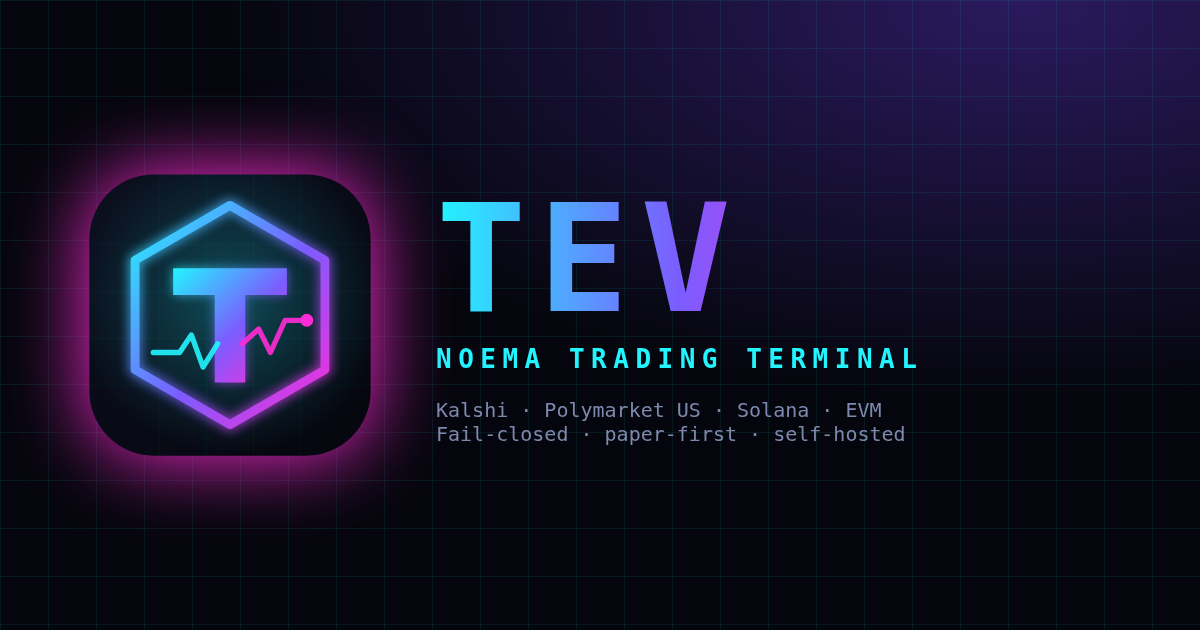
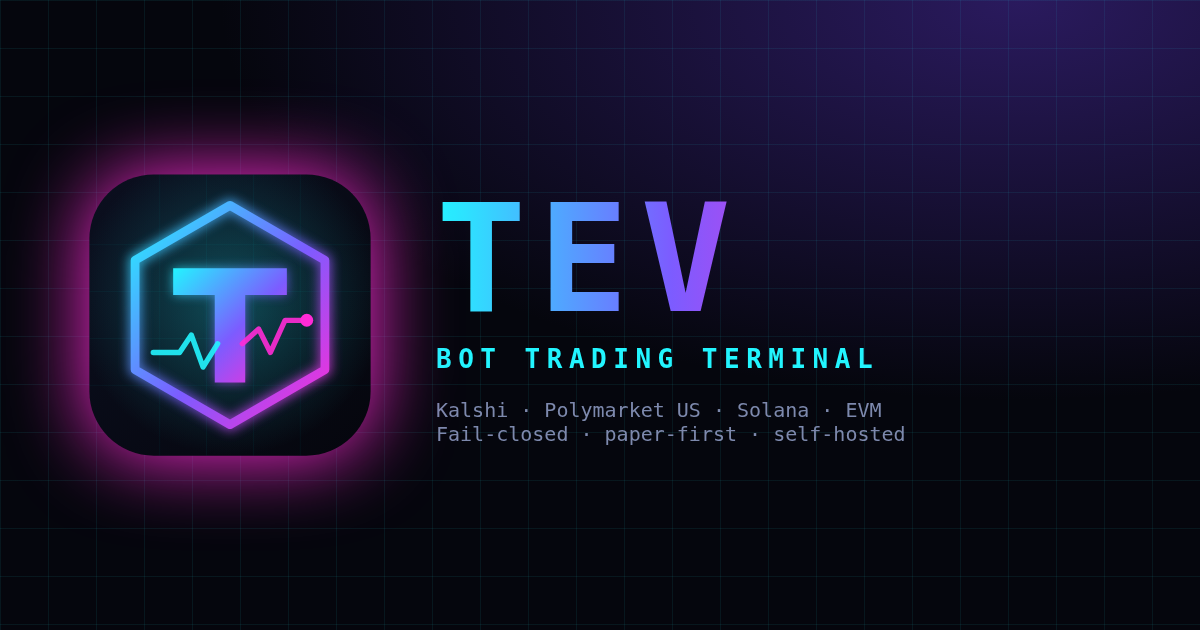
Pages: refresh content to current main (TEV Bot Trading Terminal, news v2, accuracy, capital guard, equity feed, signers, Mac app, social coming)

Changed region(s): [[0.4008, 0.5429, 0.7708, 0.6032]]

diff --git a/site/index.html b/site/index.html
@@ -3,11 +3,11 @@
   <head>
     <meta charset="UTF-8" />
     <meta name="viewport" content="width=device-width,initial-scale=1" />
-    <meta name="description" content="TEV · NOEMA — a self-hosted, fail-closed multi-agent trading terminal for Kalshi, Polymarket US, Solana and EVM. Crawler trading rooms, a news crawler, and accuracy-scored forecasting. Paper mode; results not yet proven." />
+    <meta name="description" content="TEV Bot Trading Terminal — a self-hosted, fail-closed multi-agent trading terminal for Kalshi, Polymarket US, Solana and EVM. Crawler trading rooms, a news crawler, and accuracy-scored forecasting. Paper mode; results not yet proven." />
     <meta http-equiv="Content-Security-Policy" content="default-src 'none'; script-src 'self'; style-src 'self'; img-src 'self' data:; font-src 'self'; connect-src 'none'; base-uri 'none'; form-action 'none'; object-src 'none'" />
     <meta name="theme-color" content="#05060d" />
     <meta property="og:type" content="website" />
-    <meta property="og:title" content="TEV · NOEMA Trading Terminal" />
+    <meta property="og:title" content="TEV Bot Trading Terminal" />
     <meta property="og:description" content="Fail-closed multi-agent trading terminal: crawler trading rooms, news crawler, accuracy-scored forecasting. Paper mode — not yet proven." />
     <meta property="og:url" content="https://gryszzz.github.io/TEV-Bot-Trading-Terminal/" />
     <meta property="og:image" content="https://gryszzz.github.io/TEV-Bot-Trading-Terminal/og.png" />
@@ -15,7 +15,7 @@
     <meta property="og:image:height" content="630" />
     <meta name="twitter:card" content="summary_large_image" />
     <meta name="twitter:image" content="https://gryszzz.github.io/TEV-Bot-Trading-Terminal/og.png" />
-    <title>TEV · NOEMA Trading Terminal</title>
+    <title>TEV Bot Trading Terminal</title>
     <link rel="icon" href="./favicon.ico" sizes="any" />
     <link rel="icon" href="./img/tev-logo.svg" type="image/svg+xml" />
     <link rel="apple-touch-icon" href="./tev-180.png" />
@@ -26,7 +26,7 @@
     <canvas id="grid" aria-hidden="true"></canvas>
     <a class="skip" href="#main">Skip to content</a>
     <header class="masthead">
-      <a href="#top" class="brand" aria-label="TEV home"><img src="./img/tev-logo.svg" alt="" width="34" height="34" /><strong>TEV</strong><span>NOEMA TRADING TERMINAL</span></a>
+      <a href="#top" class="brand" aria-label="TEV home"><img src="./img/tev-logo.svg" alt="" width="34" height="34" /><strong>TEV</strong><span>BOT TRADING TERMINAL</span></a>
       <nav aria-label="Primary">
         <a href="#capabilities">Capabilities</a><a href="#safety">Safety</a><a href="#gallery">Room</a><a href="#architecture">Architecture</a><a href="#roadmap">Roadmap</a><a class="cta" href="https://github.com/gryszzz/TEV-Bot-Trading-Terminal">GitHub ↗</a>
       </nav>
@@ -35,9 +35,9 @@
       <section class="hero" id="top" aria-labelledby="hero-title">
         <div class="hero-copy">
           <div class="status-strip"><span class="pill ok"><i></i>PAPER MODE</span><span class="pill">AUTONOMY · SHADOW</span><span class="pill bad">LIVE FLAGS · ALL OFF</span></div>
-          <h1 id="hero-title"><span class="glitch" data-text="TEV">TEV</span><small>Observe. Infer. Verify. Act.</small></h1>
-          <p class="lede">A self-hosted, multi-agent trading terminal built on <strong>NOEMA</strong>. Crawlers sweep Kalshi, Polymarket US and on-chain markets; specialist agents forecast; every forecast is scored; and nothing touches real money unless a fail-closed gateway, a capital guard and the owner all say yes.</p>
-          <p class="honest">Honest status: TEV runs in paper mode. No NOEMA model beats the market baseline yet, and no profit has been demonstrated.</p>
+          <h1 id="hero-title"><span class="glitch" data-text="TEV">TEV</span><small>Bot Trading Terminal</small></h1>
+          <p class="lede"><strong>TEV Bot Trading Terminal</strong> is a self-hosted, multi-agent trading terminal running on the NOEMA agent runtime. Crawlers sweep Kalshi, Polymarket US and on-chain markets; specialist agents forecast; every forecast is scored; and nothing touches real money unless a fail-closed gateway, a capital guard and the owner all say yes.</p>
+          <p class="honest">Honest status: TEV runs in paper mode. No agent beats the market baseline yet, and no profit has been demonstrated.</p>
           <div class="actions"><a class="btn primary" href="https://github.com/gryszzz/TEV-Bot-Trading-Terminal">View the repo ↗</a><a class="btn" href="#gallery">See the trading room</a></div>
         </div>
         <figure class="hero-art"><img src="./img/tev-logo.svg" alt="TEV logo" width="320" height="320" /><div class="ring"></div><div class="ring r2"></div></figure>
@@ -49,12 +49,13 @@
         <p class="eyebrow">01 / WHAT IT DOES</p>
         <h2>Rooms of crawlers. Desks of agents. One judge.</h2>
         <div class="cards">
-          <article class="card c1"><h3>Crawler trading rooms</h3><p>Live sweeps of Solana DEX pools (GeckoTerminal, DexScreener, pump.fun new pairs), Kalshi and Polymarket US. Candidates flow through filters → holders → judge → entry in a visible funnel, with per-source health.</p></article>
-          <article class="card c2"><h3>News &amp; evidence crawler</h3><p>Primary sources first: BBC, NPR, the Fed, SEC press, CourtListener, GDELT, government data releases, Congress and the Federal Register. robots.txt respected, crawled text treated as untrusted with prompt-injection redaction, articles matched to open markets by category and resolution criteria.</p></article>
-          <article class="card c3"><h3>Multi-agent forecasting</h3><p>Specialist agents (baselines, risk, fills, tape, floor, vet) propose; TEV JUDGE self-checks and skips when its samples disagree; CHIEF can veto. Every resolved forecast feeds a ledger of Brier score, log loss, calibration and EV per agent.</p></article>
-          <article class="card c4"><h3>Accuracy-weighted influence</h3><p>CHIEF weights agents by sample size × measured skill. Agents that stay out of bounds after 30 resolved forecasts are benched. Post-trade reviews write lessons back.</p></article>
-          <article class="card c5"><h3>Four desks</h3><ul class="desks"><li><b>Kalshi</b> regulated event contracts</li><li><b>Polymarket US</b> prediction markets</li><li><b>Solana</b> Jupiter swaps via a separate signer</li><li><b>EVM</b> KyberSwap on Ethereum, Base, Polygon</li></ul></article>
-          <article class="card c6"><h3>Self-hosted</h3><p>Runs on your own box with a private, password-protected TEV dashboard and a native Mac app. No cloud custody; keys live only in a separate signer process, never in logs or model context.</p></article>
+          <article class="card c1"><h3>TEV v6 trading room</h3><p>A live neon room: agent wall, crawler bay with a filters → holders → judge → entry funnel, decision stream, prediction-market board, news wire, treasury, autonomy &amp; safety panel and per-source system health.</p></article>
+          <article class="card c2"><h3>News crawler v2</h3><p>29 configured feeds, primary sources first: White House, Federal Register, Congress.gov, GovInfo, Fed, SEC, DOJ, CDC, NOAA Hurricane Center, ECB, Bank of England, CourtListener, plus BBC, NPR, Guardian, Al Jazeera, CNBC, Politico, The Hill and GDELT. Targeted searches for the soonest-closing markets, 5-minute cadence, robots.txt respected, crawled text treated as untrusted.</p><p class="metric">Matching precision: 15/16 hand-labelled links (≈94%), up from 25%. A small sample.</p></article>
+          <article class="card c3"><h3>Accuracy engine</h3><p>Every forecast goes into a ledger before its outcome. Resolved forecasts are scored per agent: Brier score, log loss, calibration and EV. CHIEF weights each agent by sample size × measured skill, agents still out of bounds after 30 resolved forecasts are benched, and TEV JUDGE skips when its own samples disagree.</p></article>
+          <article class="card c4"><h3>Capital guard + equity feed</h3><p>75% rising floor, 10% daily stop, 3 / 5 / 8% edge-scaled sizing with quarter Kelly. A read-only equity feed totals Kalshi, Polymarket US, Solana and EVM balances every 5 minutes. Any failed source marks the reading stale and blocks trading, and deposits raise the floor instead of counting as profit.</p></article>
+          <article class="card c5"><h3>Desks &amp; venues</h3><ul class="desks"><li><b>Kalshi</b> markets + account, gated live orders</li><li><b>Polymarket US</b> markets + gated live adapter (off)</li><li><b>Solana</b> trench crawler, paper desks; Jupiter signer merged, ships disabled</li><li><b>EVM</b> KyberSwap signer for ETH/Base/Polygon, merged, ships disabled</li></ul></article>
+          <article class="card c6"><h3>TEV Mac app</h3><p>A native macOS app with the TEV logo opens the private, password-protected dashboard from your Dock. Self-hosted: keys live only in a separate signer process, never in logs or model context.</p></article>
+          <article class="card c7 soon"><h3>X / social signal feed <em>coming</em></h3><p>In progress. The SOCIAL seat is a research-only placeholder today and does not influence trades.</p></article>
         </div>
       </section>
 
@@ -135,19 +136,20 @@
         <p class="eyebrow">06 / ROADMAP</p>
         <h2>Prove it on paper, then earn the right to trade.</h2>
         <ol class="roadmap">
-          <li class="done"><b>Shipped</b>TEV v6 trading room, news crawler v2, accuracy engine, capital guard, read-only equity feed, Solana &amp; EVM signers (disabled), Mac app.</li>
-          <li class="now"><b>Now</b>Build a scored paper track record: 30 resolved forecasts per desk, focused on news-driven Kalshi and Polymarket markets.</li>
-          <li><b>Next</b>Beat the market baseline on calibration. Only then: small owner-approved funding with the floor, daily stop and SOL/ETH/USDC starter allowlist.</li>
-          <li><b>Later</b>Scale sizing tiers (5%, 8%) only on 100+ / 200+ resolved forecasts that beat the market. Memecoin desks stay paper until they show positive EV after costs.</li>
+          <li class="done"><b>Shipped</b>TEV v6 trading room · accuracy engine · news crawler v2 · capital guard · read-only equity feed · Solana &amp; EVM swap signers (ship disabled) · TEV Mac app.</li>
+          <li class="now"><b>Now</b>Build a scored paper track record, focused on news-driven Kalshi and Polymarket US markets, toward 30 resolved forecasts per agent.</li>
+          <li><b>Coming</b>X / social signal feed, treated as untrusted evidence like the news crawler.</li>
+          <li><b>Next</b>Beat the market baseline on calibration. Only then: small owner-approved funding with the floor, daily stop and a SOL/ETH/USDC starter allowlist.</li>
+          <li><b>Later</b>Scale to 5% and 8% sizing only after 100+ / 200+ resolved forecasts that beat the market. Memecoin desks stay paper until they show positive EV after costs.</li>
         </ol>
       </section>
 
       <section class="section start">
-        <img src="./img/tev-banner.svg" alt="TEV // NOEMA trading terminal banner" width="1600" height="420" loading="lazy" />
+        <img src="./img/tev-banner.svg" alt="TEV Bot Trading Terminal banner" width="1600" height="420" loading="lazy" />
         <div class="actions"><a class="btn primary" href="https://github.com/gryszzz/TEV-Bot-Trading-Terminal">github.com/gryszzz/TEV-Bot-Trading-Terminal ↗</a><a class="btn" href="https://github.com/gryszzz/TEV-Bot-Trading-Terminal/blob/main/docs/capital-guard.md">Capital guard docs</a></div>
         <p class="annotation">Not financial advice. Trading prediction markets and tokens can lose money. TEV makes no performance claims.</p>
       </section>
     </main>
-    <footer>TEV · NOEMA — self-hosted, fail-closed, paper-first.</footer>
+    <footer>TEV Bot Trading Terminal · self-hosted, fail-closed, paper-first.</footer>
   </body>
 </html>

diff --git a/site/style.css b/site/style.css
@@ -112,3 +112,8 @@ footer{text-align:center;padding:32px;font:12px var(--mono);color:var(--mute);bo
 @media (max-width:900px){.hero{grid-template-columns:1fr;min-height:auto}.hero-art{max-width:320px;margin:auto;order:-1}.cards,.guard,.gallery{grid-template-columns:1fr 1fr}.ladder{grid-template-columns:repeat(4,1fr)}.arch{flex-direction:column}.arrow{transform:rotate(90deg)}.economics-grid{grid-template-columns:1fr}.brand span{display:none}}
 @media (max-width:600px){h1 small{letter-spacing:.15em}nav a:not(.cta){display:none}.cards,.guard,.gallery{grid-template-columns:1fr}.gallery .phone{grid-row:auto;max-width:320px;margin:auto}.ladder{grid-template-columns:repeat(2,1fr)}.section{padding:60px 0}}
 @media (prefers-reduced-motion:reduce){*,*::before,*::after{animation:none!important;transition:none!important}.section:not(.in){transform:none}}
+.metric{margin-top:10px!important;font:12px var(--mono)!important;color:var(--green)!important}
+.card.soon{border-style:dashed}
+.card.soon::before{background:linear-gradient(90deg,var(--amber),transparent)}
+.card em{font:600 10px var(--mono);font-style:normal;color:#000;background:var(--amber);padding:2px 6px;border-radius:3px;margin-left:6px;vertical-align:middle;text-transform:uppercase}
+.card.c7{grid-column:1/-1}

diff --git a/README.md b/README.md
@@ -103,8 +103,8 @@ The logo source is a single vector file: [`noema/static/brand/tev/tev-logo.svg`]
 | Kalshi | Market + authenticated account observation; live orders only through the fail-closed gateway |
 | Polymarket US | Market observation + gated live adapter (`polymarket_us`, off by default) |
 | Solana memecoins | Trench crawler (GeckoTerminal, DexScreener, pump.fun) feeding **paper-only** desks |
-| EVM (ETH / Base / Polygon) | Wallet balances observed read-only (`evm_watch.py`); no trading in `main` |
-| Kraken / Robinhood | Not integrated |
+| EVM (ETH / Base / Polygon) | Read-only balances (`evm_watch.py`) + KyberSwap signer in a separate process (merged, ships disabled) |
+| Kraken | Not integrated |
 
 ## News / evidence crawler
 
